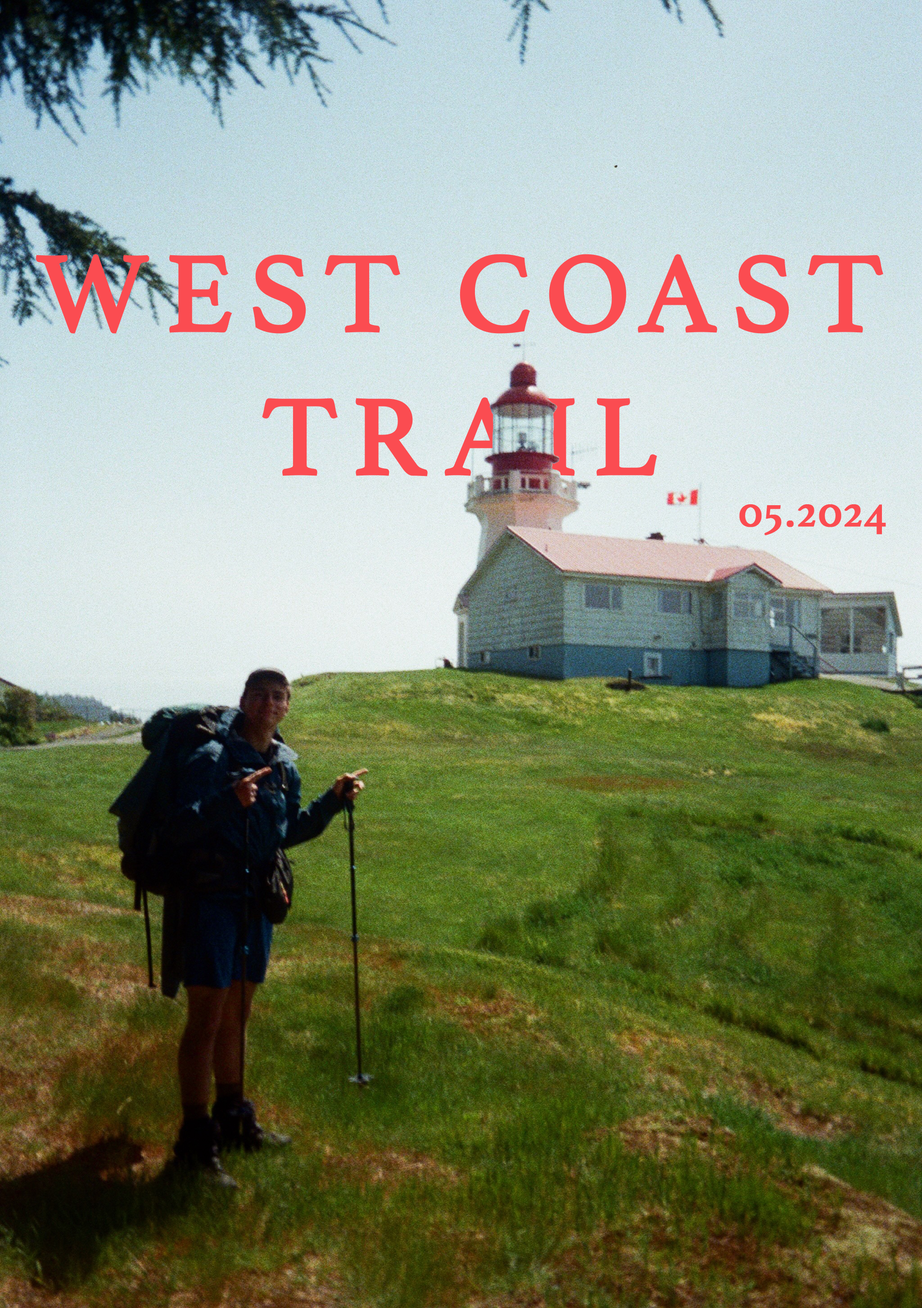
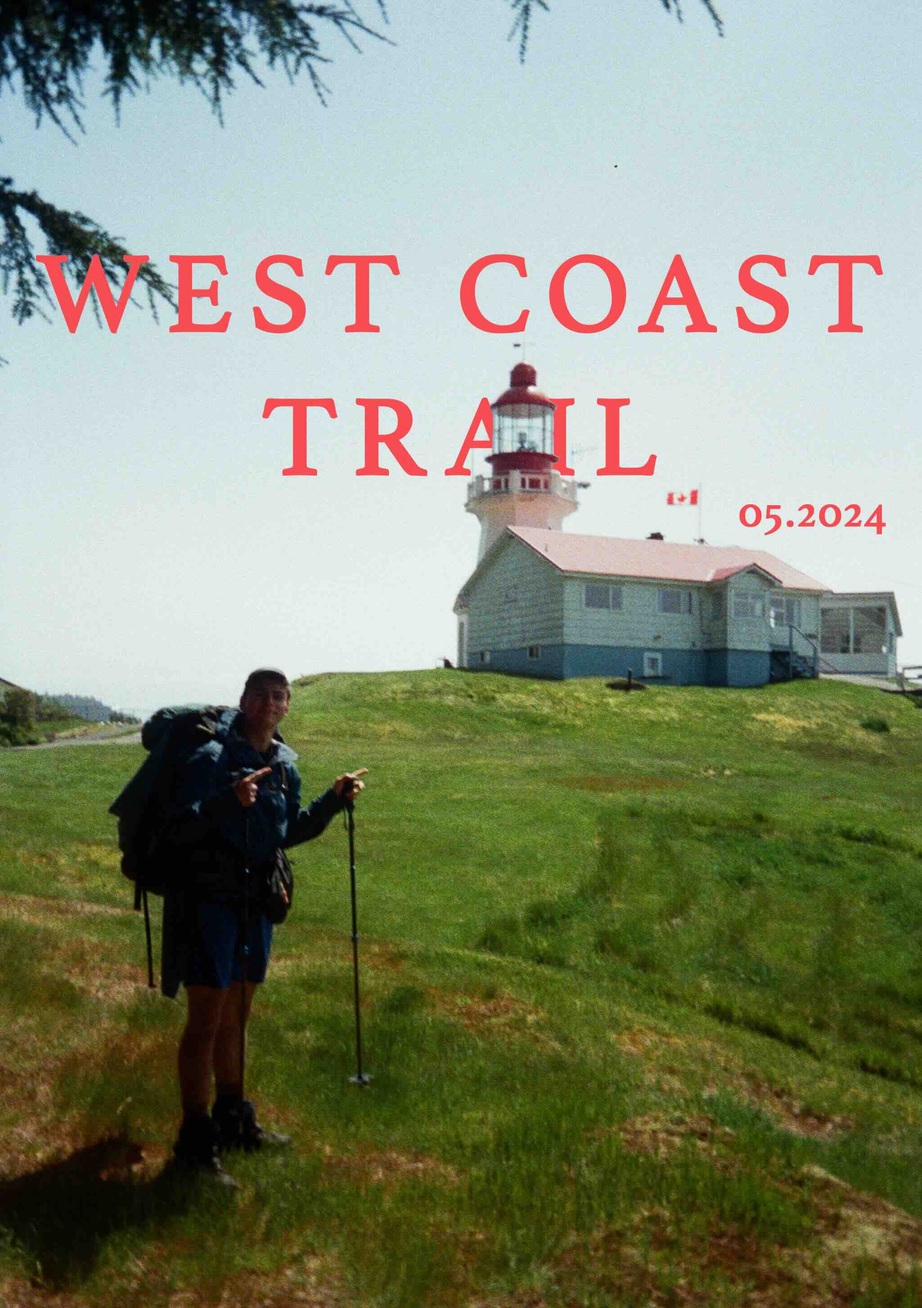
lower resolution thumbnails and new description

diff --git a/index.html b/index.html
@@ -32,7 +32,7 @@
 		<div class="page-header">
 			<!-- blurb -->
 			<div class="headertile">
-				<div class="frontpageblurb">I'm a senior at Macalester College majoring in Physics (Astronomy emphasis) and minoring in both Math and Studio Art. In addition to my interest in scientific studies, I'm proficient in Spanish, am passionate about community service (go Team Impact!), and love the outdoors.
+				<div class="frontpageblurb">I'm a senior at Macalester College majoring in Physics with an Astronomy emphasis, minoring in both Math and Studio Art. I'm proficient in Spanish, am passionate about community service (go Team Impact!), and love the outdoors. Here you can find a collection of my creative projects.
 				</div>		
 			</div>
 
@@ -58,64 +58,64 @@
 				<!-- list of tiles -->
 				<!-- each tile is a link to the corresponding project page -->
 				<a href="mugs/index.html" class="tile">
-					<img src="mugs/main_trio.jpg" alt="Three mugs together">
+					<img src="mugs/main_trio_low.jpg" alt="Three mugs together">
 				</a>
 				<a href="bike_poem/index.html" class="tile">
-					<img src="bike_poem/bike_thumb.png" alt="Bike Opening Scene">
+					<img src="bike_poem/bike_thumb.jpg" alt="Bike Opening Scene">
 				</a>
 				<a href="hands_snakes/index.html" class="tile">
 					<img src="hands_snakes/main_low.jpg" alt="Hands and Snakes Drawing">
 				</a>
 				<a href="blue_bowls/index.html" class="tile">
-					<img src="blue_bowls/sup_iso_1.jpg" alt="Blue Bowls Isometric">
+					<img src="blue_bowls/sup_iso_1_low.jpg" alt="Blue Bowls Isometric">
 				</a>
 				<a href="japan_wc/index.html" class="tile">
 					<img src="japan_wc/main_bike_low.jpg" alt="Watercolors from Japan">
 				</a>
 				<a href="miso_video/index.html" class="tile">
-					<img src="miso_video/miso_thumbnail.png" alt="Misophonia Cereal Mess">
+					<img src="miso_video/miso_thumbnail.jpg" alt="Misophonia Cereal Mess">
 				</a>
 				<a href="japan_trees/index.html" class="tile">
 					<img src="japan_trees/main_low.jpg" alt="Tree Sketches from Japan">
 				</a>
 				<a href="bowl_stack/index.html" class="tile">
-					<img src="bowl_stack/bowl_stack.jpg" alt="Stack of Ceramic Bowls">
+					<img src="bowl_stack/bowl_stack_low.jpg" alt="Stack of Ceramic Bowls">
 				</a>
 				<a href="documentary/index.html" class="tile">
-					<img src="documentary/doc_thumbnail.png" alt="African Music Ensemble Documentary Drumming">
+					<img src="documentary/doc_thumbnail.jpg" alt="African Music Ensemble Documentary Drumming">
 				</a>
 				<a href="lisbon/index.html" class="tile">
 					<img src="lisbon/main_house_low.jpg" alt="Lisbon Sketch of House">
 				</a>
 				<a href="coasters/index.html" class="tile">
-					<img src="coasters/main_pile.jpg" alt="Pile of ceramic coasters">
+					<img src="coasters/main_pile_low.jpg" alt="Pile of ceramic coasters">
 				</a>
 				<a href="tree_color/index.html" class="tile">
 					<img src="tree_color/tree_color_low.jpg" alt="Tree Pen Drawing in 3 Colors">
 				</a>
 				<a href="dnba/index.html" class="tile">
-					<img src="dnba/dnba_thumbnail.png" alt="Do Not Be Ashamed Poem Opening">
+					<img src="dnba/dnba_thumbnail.jpg" alt="Do Not Be Ashamed Poem Opening">
 				</a>
 				<a href="mia_piece/index.html" class="tile">
-					<img src="mia_piece/main_iso.jpg" alt="Large Ceramic Vase">
+					<img src="mia_piece/main_iso_low.jpg" alt="Large Ceramic Vase">
 				</a>
 				<a href="moth_taw/index.html" class="tile">
-					<img src="moth_taw/moth_wrap_thumbnail.png" alt="Moth Live Story, That's a Wrap">
+					<img src="moth_taw/moth_wrap_thumbnail.jpg" alt="Moth Live Story, That's a Wrap">
 				</a>
 				<a href="hands_big/index.html" class="tile">
 					<img src="hands_big/main_low.jpg" alt="Big Hands Drawing">
 				</a>
 				<a href="pot/index.html" class="tile">
-					<img src="pot/pot.jpg" alt="Ceramic Flower Pot">
+					<img src="pot/pot_low.jpg" alt="Ceramic Flower Pot">
 				</a>
 				<a href="knife_plate/index.html" class="tile">
 					<img src="knife_plate/knife_plate_low.jpg" alt="Sketch of Knife on Plate">
 				</a>
 				<a href="soccer/index.html" class="tile">
-					<img src="soccer/soccer_thumbnail.png" alt="Soccer Highlight Video">
+					<img src="soccer/soccer_thumbnail.jpg" alt="Soccer Highlight Video">
 				</a>
 				<a href="WCT/index.html" class="tile">
-					<img src="WCT/main_mist.jpeg" alt="Misty Backpacking Film Photo ">
+					<img src="WCT/main_mist_low.jpg" alt="Misty Backpacking Film Photo ">
 				</a>
 				<a href="glass/index.html" class="tile">
 					<img src="glass/glass_low.jpg" alt="Glass and Spoon Pen Sketch">
@@ -132,16 +132,16 @@
 				<a href="hands_2024/index.html" class="tile">
 					<img src="hands_2024/main_hand_low.jpg" alt="Charcoal Drawing of Hand">
 				<a href="red_bowls/index.html" class="tile">
-					<img src="red_bowls/main_iso.jpg" alt="Two red ceramic bowls">
+					<img src="red_bowls/main_iso_low.jpg" alt="Two red ceramic bowls">
 				</a>
 				<a href="abstract/index.html" class="tile">
 					<img src="abstract/trio_low.jpg" alt="Abstract mixed media drawing">
 				</a>
 				<a href="rocket_video/index.html" class="tile">
-					<img src="rocket_video/girl_scouts.jpeg" alt="Rocketry Club Girl Scouts Event Story">
+					<img src="rocket_video/girl_scouts.jpg" alt="Rocketry Club Girl Scouts Event Story">
 				</a>
 				<a href="font/index.html" class="tile">
-					<img src="font/main_font.jpg" alt="Leche Typeface Poster">
+					<img src="font/main_font_low.jpg" alt="Leche Typeface Poster">
 				</a>
 				<a href="abby/index.html" class="tile">
 					<img src="abby/abby.jpeg" alt="Abby Dog Sketch">
@@ -153,10 +153,10 @@
 					<img src="bags/main_low.jpg" alt="Paper Bags Drawing">
 				</a>
 				<a href="trio/index.html" class="tile">
-					<img src="trio/main_trio.jpg" alt="Three ceramic pieces">
+					<img src="trio/main_trio_low.jpg" alt="Three ceramic pieces">
 				</a>
 				<a href="japan_motiv/index.html" class="tile">
-					<img src="japan_motiv/japan_thumbnail.jpeg" alt="Japan Project Motivation Video">
+					<img src="japan_motiv/japan_thumbnail.jpg" alt="Japan Project Motivation Video">
 				</a>
 				<a href="zentangle/index.html" class="tile">
 					<img src="zentangle/zentangle_low.jpg" alt="Zentangle Drawing">
@@ -183,7 +183,7 @@
 					<img src="elements/spiral.jpg" alt="Spiral Element Design">
 				</a>
 				<a href="candle/index.html" class="tile">
-					<img src="candle/candle_coaster.jpg" alt="Ceramic candle holder on coaster">
+					<img src="candle/candle_coaster_low.jpg" alt="Ceramic candle holder on coaster">
 				</a>
 				<a href="camino/index.html" class="tile">
 					<img src="camino/main_tree_1_low.jpg" alt="Camino De Santiago Sketch in Pen">
